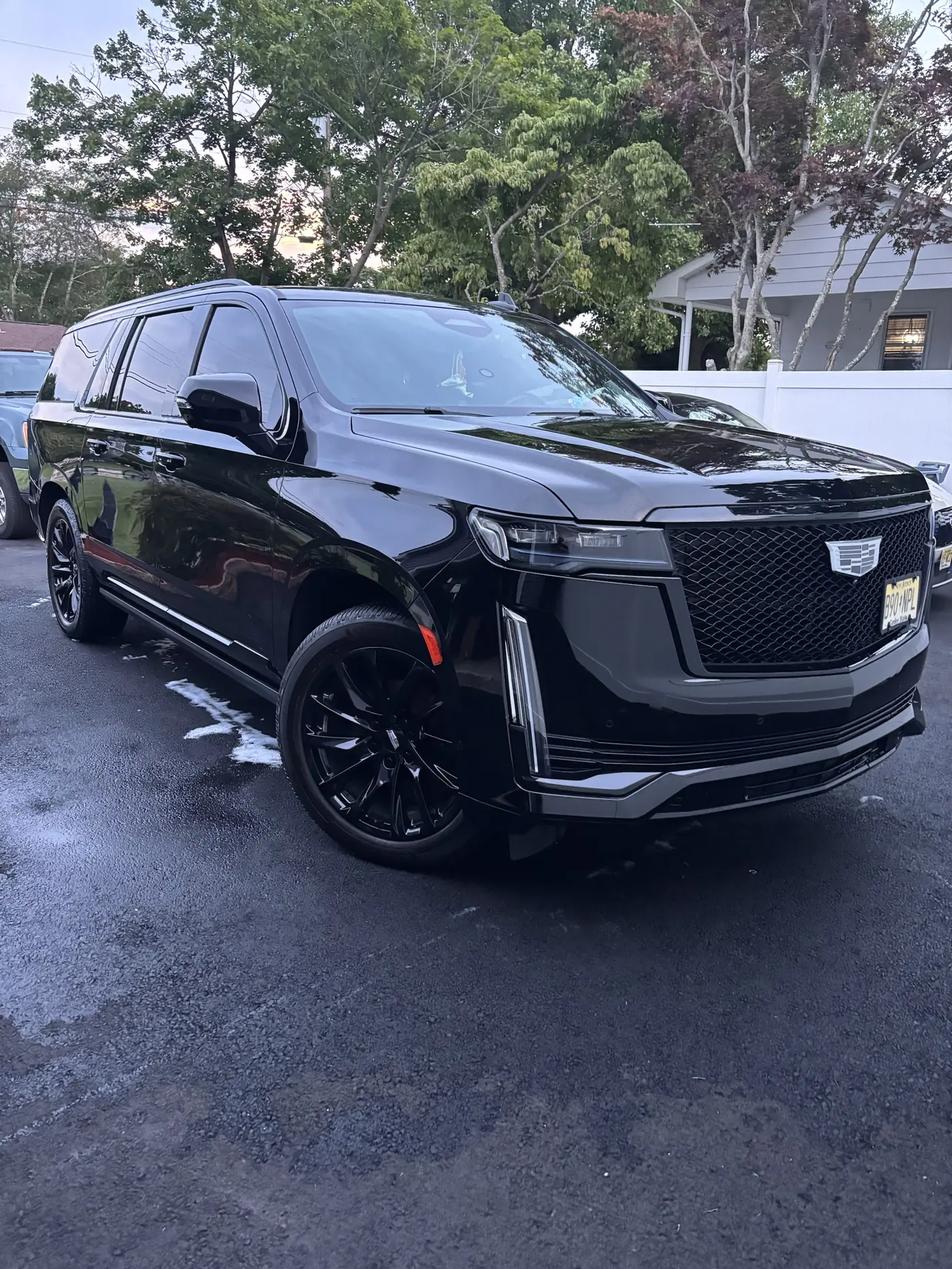
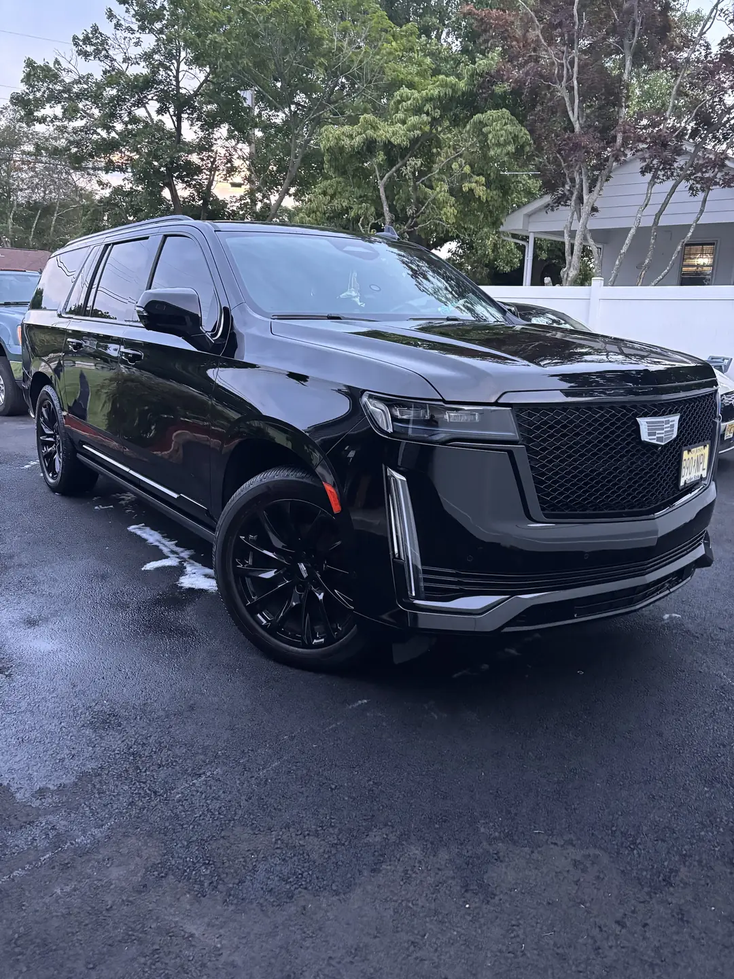
SEO fixes: share image, llms.txt, heading order, links
- Add og-image.jpg (1200x630) that every page already referenced,
  plus og:image width/height/alt tags on all pages
- Add llms.txt describing services, pricing, area and booking
- Fix homepage heading order (h2 -> h4 skips now h3, same styling)
- Shorten homepage meta description to 154 chars
- Link footer package names to their service pages
- Recompress new hero photos (~40% smaller)

Claude-Session: https://claude.ai/code/session_01Bfg8QQgaPRipUmmfCnxcaa

diff --git a/index.html b/index.html
@@ -13,7 +13,7 @@ j=d.createElement(s),dl=l!='dataLayer'?'&l='+l:'';j.async=true;j.src=
 <meta name="viewport" content="width=device-width, initial-scale=1.0">
 <meta name="robots" content="index, follow">
 <title>SB Autoworks | Mobile Car Detailing — South Jersey</title>
-<meta name="description" content="SB Autoworks — South Jersey's #1 mobile car detailing service. Ceramic coatings, paint correction, interior & exterior detailing. We come to you. Serving Vineland, Bridgeton, Millville & Cumberland County. Call (856) 538-0407.">
+<meta name="description" content="Mobile car detailing in South Jersey — ceramic coatings, paint correction &amp; interior/exterior details at your driveway. 5-star rated. Call (856) 538-0407.">
 <link rel="canonical" href="https://sbautoworks.com/">
 
 <!-- Open Graph -->
@@ -22,6 +22,9 @@ j=d.createElement(s),dl=l!='dataLayer'?'&l='+l:'';j.async=true;j.src=
 <meta property="og:title" content="SB Autoworks | Mobile Car Detailing — South Jersey">
 <meta property="og:description" content="Professional mobile detailing, ceramic coatings & paint correction delivered to your driveway. Serving Vineland, Bridgeton, Millville & surrounding South Jersey areas. 5-Star rated.">
 <meta property="og:image" content="https://sbautoworks.com/og-image.jpg">
+<meta property="og:image:width" content="1200">
+<meta property="og:image:height" content="630">
+<meta property="og:image:alt" content="SB Autoworks mobile detailing — freshly detailed green BMW M3">
 <meta property="og:site_name" content="SB Autoworks">
 <meta property="og:locale" content="en_US">
 
@@ -687,42 +690,42 @@ height="0" width="0" style="display:none;visibility:hidden"></iframe></noscript>
       </summary>
       <div class="addons-grid">
       <div class="addon-item">
-        <h4>Pet Hair Removal</h4>
+        <h3>Pet Hair Removal</h3>
         <p style="color:var(--gold);font-family:var(--font-display);font-size:.85rem;font-weight:600;letter-spacing:.04em;margin-bottom:.4rem;">Starting at $25</p>
         <p>Deep extraction from seats, carpet & all interior surfaces using professional-grade tools.</p>
       </div>
       <div class="addon-item">
-        <h4>Headlight Restoration</h4>
+        <h3>Headlight Restoration</h3>
         <p style="color:var(--gold);font-family:var(--font-display);font-size:.85rem;font-weight:600;letter-spacing:.04em;margin-bottom:.4rem;">Starting at $60</p>
         <p>Multi-stage wet sanding and polishing to eliminate yellowing and haze. Includes a <strong>1-year warranty</strong> — if they fade again within 12 months, we restore them free of charge.</p>
       </div>
       <div class="addon-item">
-        <h4>Odor Elimination</h4>
+        <h3>Odor Elimination</h3>
         <p style="color:var(--gold);font-family:var(--font-display);font-size:.85rem;font-weight:600;letter-spacing:.04em;margin-bottom:.4rem;">Starting at $25</p>
         <p>Targeted enzyme-based treatment to neutralize odors at the source — not just mask them.</p>
       </div>
       <div class="addon-item">
-        <h4>Tar & Sap Removal</h4>
+        <h3>Tar & Sap Removal</h3>
         <p style="color:var(--gold);font-family:var(--font-display);font-size:.85rem;font-weight:600;letter-spacing:.04em;margin-bottom:.4rem;">Starting at $35</p>
         <p>Professional solvent treatment safely dissolves bonded tar, tree sap, and road contaminants without damaging your clear coat.</p>
       </div>
       <div class="addon-item">
-        <h4>Water Spot Treatment</h4>
+        <h3>Water Spot Treatment</h3>
         <p style="color:var(--gold);font-family:var(--font-display);font-size:.85rem;font-weight:600;letter-spacing:.04em;margin-bottom:.4rem;">Starting at $45</p>
         <p>Specialized mineral deposit removal from paint and glass surfaces, restoring clarity and a clean finish.</p>
       </div>
       <div class="addon-item">
-        <h4>Engine Bay Detail</h4>
+        <h3>Engine Bay Detail</h3>
         <p style="color:var(--gold);font-family:var(--font-display);font-size:.85rem;font-weight:600;letter-spacing:.04em;margin-bottom:.4rem;">Starting at $55</p>
         <p>Thorough degreasing, agitation, and rinse of the engine bay followed by a protective dressing on plastics and rubber components.</p>
       </div>
       <div class="addon-item">
-        <h4>Ceramic Spray Coating</h4>
+        <h3>Ceramic Spray Coating</h3>
         <p style="color:var(--gold);font-family:var(--font-display);font-size:.85rem;font-weight:600;letter-spacing:.04em;margin-bottom:.4rem;">Starting at $25</p>
         <p>A professional-grade ceramic spray applied after a wash to enhance gloss and provide hydrophobic paint protection. Lasts 4–6 weeks.</p>
       </div>
       <div class="addon-item">
-        <h4>Seat Wash & Shampoo</h4>
+        <h3>Seat Wash & Shampoo</h3>
         <p style="color:var(--gold);font-family:var(--font-display);font-size:.85rem;font-weight:600;letter-spacing:.04em;margin-bottom:.4rem;">Starting at $65</p>
         <p>A thorough 3-step process: pre-treatment of stains, hot steam cleaning to lift embedded dirt, and a deep shampoo extraction for a fresh, sanitized finish.</p>
       </div>
@@ -842,37 +845,37 @@ height="0" width="0" style="display:none;visibility:hidden"></iframe></noscript>
       <div class="how-step">
         <div class="how-step-num">01</div>
         <span class="how-step-icon">📋</span>
-        <h4>Choose Your Interval</h4>
+        <h3>Choose Your Interval</h3>
         <p>Pick how often you want your vehicle detailed — anywhere from weekly to every 2 months. The more frequent your plan, the bigger your discount.</p>
       </div>
       <div class="how-step">
         <div class="how-step-num">02</div>
         <span class="how-step-icon">💰</span>
-        <h4>Lock In Your Rate</h4>
+        <h3>Lock In Your Rate</h3>
         <p>Once you're on a plan your price is locked in. No price increases, no surprises — your rate stays the same for as long as you stay on your schedule.</p>
       </div>
       <div class="how-step">
         <div class="how-step-num">03</div>
         <span class="how-step-icon">📅</span>
-        <h4>Secure Your Spot</h4>
+        <h3>Secure Your Spot</h3>
         <p>A deposit is required to lock in each appointment. We show up at your door on schedule — no chasing, no rescheduling hassle.</p>
       </div>
       <div class="how-step">
         <div class="how-step-num">04</div>
         <span class="how-step-icon">🛡</span>
-        <h4>Covered Between Visits</h4>
+        <h3>Covered Between Visits</h3>
         <p>Everyday spills, stains, and odors between appointments are handled at no extra charge. If something needs significantly more time to fix, we'll always let you know first.</p>
       </div>
       <div class="how-step">
         <div class="how-step-num">05</div>
         <span class="how-step-icon">⏱</span>
-        <h4>Your 7-Day Grace Period</h4>
+        <h3>Your 7-Day Grace Period</h3>
         <p>Life happens. Every interval comes with a 7-day grace window — stay within it and your full discount is protected. Miss it and your rate adjusts to the next applicable tier.</p>
       </div>
       <div class="how-step">
         <div class="how-step-num">06</div>
         <span class="how-step-icon">🔓</span>
-        <h4>No Contracts. Ever.</h4>
+        <h3>No Contracts. Ever.</h3>
         <p>No sign-up fee. No long-term commitment. Just consistent, professional detailing at the best rate available — on your terms.</p>
       </div>
     </div>
@@ -1125,17 +1128,17 @@ height="0" width="0" style="display:none;visibility:hidden"></iframe></noscript>
     <div class="whymobile-grid">
       <div class="whymobile-card">
         <span class="whymobile-icon">🏠</span>
-        <h4>Done At Your Door</h4>
+        <h3>Done At Your Door</h3>
         <p>We come to your home or workplace fully loaded. No arranging a ride, no sitting in a waiting room, no disrupting your day. Your car gets detailed while you live your life.</p>
       </div>
       <div class="whymobile-card">
         <span class="whymobile-icon">🎯</span>
-        <h4>One Vehicle. Full Focus.</h4>
+        <h3>One Vehicle. Full Focus.</h3>
         <p>At a shop, your car is one of dozens moving through a production line. With SB Autoworks it's just your vehicle — getting our complete, undivided attention from start to finish.</p>
       </div>
       <div class="whymobile-card">
         <span class="whymobile-icon">🕐</span>
-        <h4>Your Time Stays Yours</h4>
+        <h3>Your Time Stays Yours</h3>
         <p>The average shop detail means dropping off in the morning and picking up at end of day. We come to you, do the work, and leave — you never lose a single productive hour.</p>
       </div>
     </div>
@@ -1152,28 +1155,28 @@ height="0" width="0" style="display:none;visibility:hidden"></iframe></noscript>
         <div class="why-item">
           <div class="why-num">01</div>
           <div class="why-text">
-            <h4>Your driveway. Your schedule.</h4>
+            <h3>Your driveway. Your schedule.</h3>
             <p>We show up fully equipped at your home or workplace. No drop-off, no waiting room, no losing half your day — just results at your door.</p>
           </div>
         </div>
         <div class="why-item">
           <div class="why-num">02</div>
           <div class="why-text">
-            <h4>3+ Years of Proven Results</h4>
+            <h3>3+ Years of Proven Results</h3>
             <p>We're not a franchise or a first-timer. SB Autoworks is backed by years of hands-on detailing experience across hundreds of vehicles — from daily drivers to high-end builds.</p>
           </div>
         </div>
         <div class="why-item">
           <div class="why-num">03</div>
           <div class="why-text">
-            <h4>One-on-one attention, every time</h4>
+            <h3>One-on-one attention, every time</h3>
             <p>Your vehicle isn't on a production line. Every job gets our full, undivided attention from start to finish — no shortcuts, no rushing, no handing it off to someone else.</p>
           </div>
         </div>
         <div class="why-item">
           <div class="why-num">04</div>
           <div class="why-text">
-            <h4>The only local detailer with a maintenance plan</h4>
+            <h3>The only local detailer with a maintenance plan</h3>
             <p>No competitor in South Jersey offers what we do — a flexible, no-contract maintenance program that locks in your rate, covers you between visits, and saves you up to 40% per year.</p>
           </div>
         </div>
@@ -1393,11 +1396,11 @@ height="0" width="0" style="display:none;visibility:hidden"></iframe></noscript>
     <div class="footer-col">
       <h4>Packages</h4>
       <ul>
-        <li>Refresh Detail</li>
-        <li>Signature Detail</li>
-        <li>Elite Detail</li>
-        <li>Paint Correction</li>
-        <li>Ceramic Pro</li>
+        <li><a href="mobile-detailing.html">Refresh Detail</a></li>
+        <li><a href="mobile-detailing.html">Signature Detail</a></li>
+        <li><a href="mobile-detailing.html">Elite Detail</a></li>
+        <li><a href="paint-correction.html">Paint Correction</a></li>
+        <li><a href="ceramic-coating.html">Ceramic Pro</a></li>
         <li>Disaster Detail</li>
         <li>Add-On Services</li>
       </ul>

diff --git a/styles.css b/styles.css
@@ -74,7 +74,7 @@
   .addons-grid { display: grid; grid-template-columns: repeat(auto-fit, minmax(200px,1fr)); gap: 1px; background: var(--border); border: 1px solid var(--border); margin-top: 0; padding-top: 0; }
   .addon-item { background: var(--surface); padding: 1.25rem 1.5rem; transition: background .2s; }
   .addon-item:hover { background: var(--surface2); }
-  .addon-item h4 { font-family: var(--font-display); font-size: 1rem; font-weight: 700; text-transform: uppercase; letter-spacing: .04em; margin-bottom: .3rem; }
+  .addon-item h4, .addon-item h3 { font-family: var(--font-display); font-size: 1rem; font-weight: 700; text-transform: uppercase; letter-spacing: .04em; margin-bottom: .3rem; }
   .addon-item p { font-size: .8rem; color: var(--muted); }
 
   /* TIER "WHAT'S INCLUDED" DROPDOWNS */
@@ -117,7 +117,7 @@
   .why-list { display: flex; flex-direction: column; gap: 2rem; }
   .why-item { display: flex; gap: 1.25rem; align-items: flex-start; }
   .why-num { font-family: var(--font-display); font-size: 3rem; font-weight: 800; color: rgba(201,168,76,0.15); line-height: 1; flex-shrink: 0; width: 3rem; text-align: right; }
-  .why-text h4 { font-family: var(--font-display); font-weight: 700; font-size: 1.1rem; letter-spacing: .04em; text-transform: uppercase; margin-bottom: .4rem; }
+  .why-text h4, .why-text h3 { font-family: var(--font-display); font-weight: 700; font-size: 1.1rem; letter-spacing: .04em; text-transform: uppercase; margin-bottom: .4rem; }
   .why-text p { font-size: .9rem; color: var(--muted); }
   .contact-box { border: 1px solid var(--border); padding: 2.5rem; background: var(--surface); position: relative; }
   .contact-box::before { content: ''; position: absolute; top: 0; left: 0; width: 3rem; height: 3rem; border-top: 2px solid var(--gold); border-left: 2px solid var(--gold); }
@@ -231,7 +231,7 @@
   .whymobile-card { background: var(--surface); padding: 2.5rem 2rem; text-align: center; transition: background .2s; }
   .whymobile-card:hover { background: var(--surface2); }
   .whymobile-icon { font-size: 2.5rem; display: block; margin-bottom: 1.25rem; }
-  .whymobile-card h4 { font-family: var(--font-display); font-weight: 800; font-size: 1.2rem; text-transform: uppercase; letter-spacing: .04em; margin-bottom: .75rem; }
+  .whymobile-card h4, .whymobile-card h3 { font-family: var(--font-display); font-weight: 800; font-size: 1.2rem; text-transform: uppercase; letter-spacing: .04em; margin-bottom: .75rem; }
   .whymobile-card p { font-size: .88rem; color: var(--muted); line-height: 1.7; }
   @media (max-width: 768px) { .whymobile-grid { grid-template-columns: 1fr; } }
 
@@ -291,7 +291,7 @@
   .how-step { background: var(--surface2); padding: 2rem 1.5rem; position: relative; }
   .how-step-num { font-family: var(--font-display); font-size: 3.5rem; font-weight: 800; color: rgba(201,168,76,0.08); line-height: 1; margin-bottom: .5rem; }
   .how-step-icon { font-size: 1.5rem; margin-bottom: .75rem; display: block; }
-  .how-step h4 { font-family: var(--font-display); font-weight: 700; font-size: 1rem; text-transform: uppercase; letter-spacing: .06em; margin-bottom: .5rem; color: var(--white); }
+  .how-step h4, .how-step h3 { font-family: var(--font-display); font-weight: 700; font-size: 1rem; text-transform: uppercase; letter-spacing: .06em; margin-bottom: .5rem; color: var(--white); }
   .how-step p { font-size: .82rem; color: var(--muted); line-height: 1.6; }
 
   /* DISCOUNT TABLE */

diff --git a/mobile-detailing.html b/mobile-detailing.html
@@ -22,6 +22,9 @@ j=d.createElement(s),dl=l!='dataLayer'?'&l='+l:'';j.async=true;j.src=
 <meta property="og:title" content="Mobile Car Detailing in South Jersey | SB Autoworks">
 <meta property="og:description" content="Professional mobile car detailing that comes to you. Interior & exterior detailing across Vineland, Bridgeton, Millville, Glassboro & Cumberland County. Call (856) 538-0407.">
 <meta property="og:image" content="https://sbautoworks.com/og-image.jpg">
+<meta property="og:image:width" content="1200">
+<meta property="og:image:height" content="630">
+<meta property="og:image:alt" content="SB Autoworks mobile detailing — freshly detailed green BMW M3">
 <meta property="og:site_name" content="SB Autoworks">
 <meta property="og:locale" content="en_US">
 

diff --git a/ceramic-coating.html b/ceramic-coating.html
@@ -22,6 +22,9 @@ j=d.createElement(s),dl=l!='dataLayer'?'&l='+l:'';j.async=true;j.src=
 <meta property="og:title" content="Ceramic Coating in South Jersey | SB Autoworks — Ceramic Pro">
 <meta property="og:description" content="Professional Ceramic Pro coating application in Vineland, Bridgeton, Millville, Glassboro & Cumberland County. Multi-year paint protection, starting at $1,150.">
 <meta property="og:image" content="https://sbautoworks.com/og-image.jpg">
+<meta property="og:image:width" content="1200">
+<meta property="og:image:height" content="630">
+<meta property="og:image:alt" content="SB Autoworks mobile detailing — freshly detailed green BMW M3">
 <meta property="og:site_name" content="SB Autoworks">
 <meta property="og:locale" content="en_US">
 

diff --git a/mobile-detailing-bridgeton-nj.html b/mobile-detailing-bridgeton-nj.html
@@ -22,6 +22,9 @@ j=d.createElement(s),dl=l!='dataLayer'?'&l='+l:'';j.async=true;j.src=
 <meta property="og:title" content="Mobile Car Detailing in Bridgeton, NJ | SB Autoworks">
 <meta property="og:description" content="Mobile car detailing that comes to you in Bridgeton, NJ. Ceramic coating, paint correction & full interior/exterior detailing. Call (856) 538-0407 for a fast quote.">
 <meta property="og:image" content="https://sbautoworks.com/og-image.jpg">
+<meta property="og:image:width" content="1200">
+<meta property="og:image:height" content="630">
+<meta property="og:image:alt" content="SB Autoworks mobile detailing — freshly detailed green BMW M3">
 <meta property="og:site_name" content="SB Autoworks">
 <meta property="og:locale" content="en_US">
 

diff --git a/mobile-detailing-glassboro-nj.html b/mobile-detailing-glassboro-nj.html
@@ -22,6 +22,9 @@ j=d.createElement(s),dl=l!='dataLayer'?'&l='+l:'';j.async=true;j.src=
 <meta property="og:title" content="Mobile Car Detailing in Glassboro, NJ | SB Autoworks">
 <meta property="og:description" content="Mobile car detailing that comes to you in Glassboro, NJ. Ceramic coating, paint correction & full interior/exterior detailing. Call (856) 538-0407 for a fast quote.">
 <meta property="og:image" content="https://sbautoworks.com/og-image.jpg">
+<meta property="og:image:width" content="1200">
+<meta property="og:image:height" content="630">
+<meta property="og:image:alt" content="SB Autoworks mobile detailing — freshly detailed green BMW M3">
 <meta property="og:site_name" content="SB Autoworks">
 <meta property="og:locale" content="en_US">
 

diff --git a/mobile-detailing-millville-nj.html b/mobile-detailing-millville-nj.html
@@ -22,6 +22,9 @@ j=d.createElement(s),dl=l!='dataLayer'?'&l='+l:'';j.async=true;j.src=
 <meta property="og:title" content="Mobile Car Detailing in Millville, NJ | SB Autoworks">
 <meta property="og:description" content="Mobile car detailing that comes to you in Millville, NJ. Ceramic coating, paint correction & full interior/exterior detailing. Call (856) 538-0407 for a fast quote.">
 <meta property="og:image" content="https://sbautoworks.com/og-image.jpg">
+<meta property="og:image:width" content="1200">
+<meta property="og:image:height" content="630">
+<meta property="og:image:alt" content="SB Autoworks mobile detailing — freshly detailed green BMW M3">
 <meta property="og:site_name" content="SB Autoworks">
 <meta property="og:locale" content="en_US">
 

diff --git a/mobile-detailing-vineland-nj.html b/mobile-detailing-vineland-nj.html
@@ -22,6 +22,9 @@ j=d.createElement(s),dl=l!='dataLayer'?'&l='+l:'';j.async=true;j.src=
 <meta property="og:title" content="Mobile Car Detailing in Vineland, NJ | SB Autoworks">
 <meta property="og:description" content="Mobile car detailing that comes to you in Vineland, NJ. Ceramic coating, paint correction & full interior/exterior detailing. Call (856) 538-0407 for a fast quote.">
 <meta property="og:image" content="https://sbautoworks.com/og-image.jpg">
+<meta property="og:image:width" content="1200">
+<meta property="og:image:height" content="630">
+<meta property="og:image:alt" content="SB Autoworks mobile detailing — freshly detailed green BMW M3">
 <meta property="og:site_name" content="SB Autoworks">
 <meta property="og:locale" content="en_US">
 

diff --git a/paint-correction.html b/paint-correction.html
@@ -22,6 +22,9 @@ j=d.createElement(s),dl=l!='dataLayer'?'&l='+l:'';j.async=true;j.src=
 <meta property="og:title" content="Paint Correction in South Jersey | SB Autoworks">
 <meta property="og:description" content="Mobile paint correction in Vineland, Bridgeton, Millville, Glassboro & Cumberland County. Remove swirls, scratches & oxidation — starting at $320.">
 <meta property="og:image" content="https://sbautoworks.com/og-image.jpg">
+<meta property="og:image:width" content="1200">
+<meta property="og:image:height" content="630">
+<meta property="og:image:alt" content="SB Autoworks mobile detailing — freshly detailed green BMW M3">
 <meta property="og:site_name" content="SB Autoworks">
 <meta property="og:locale" content="en_US">
 
